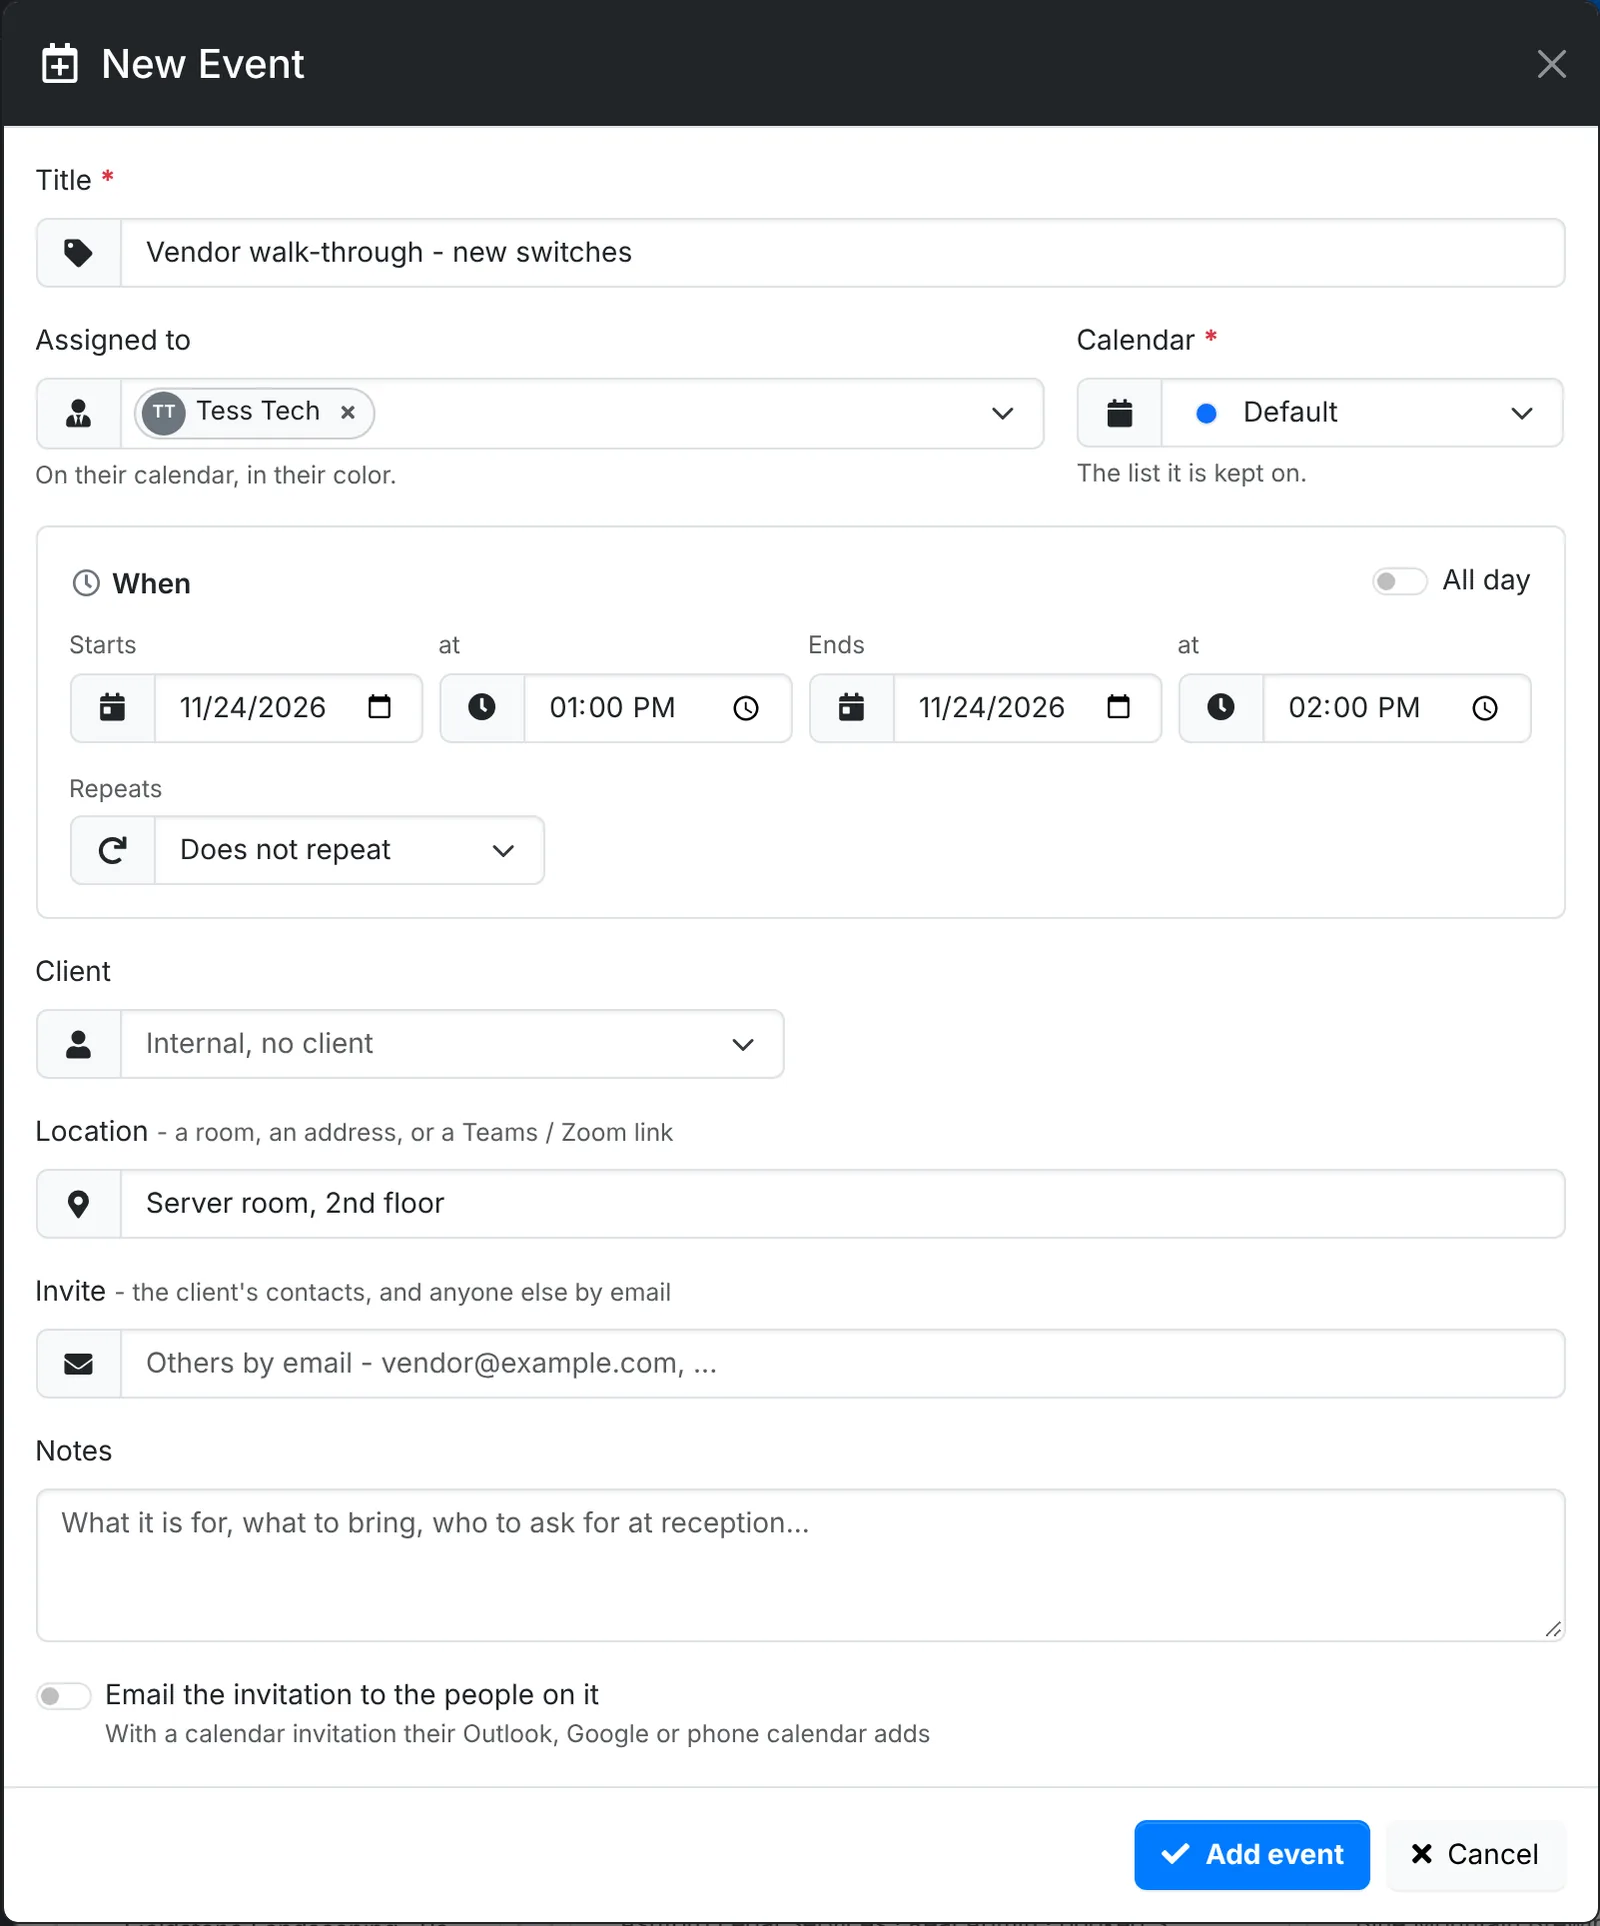
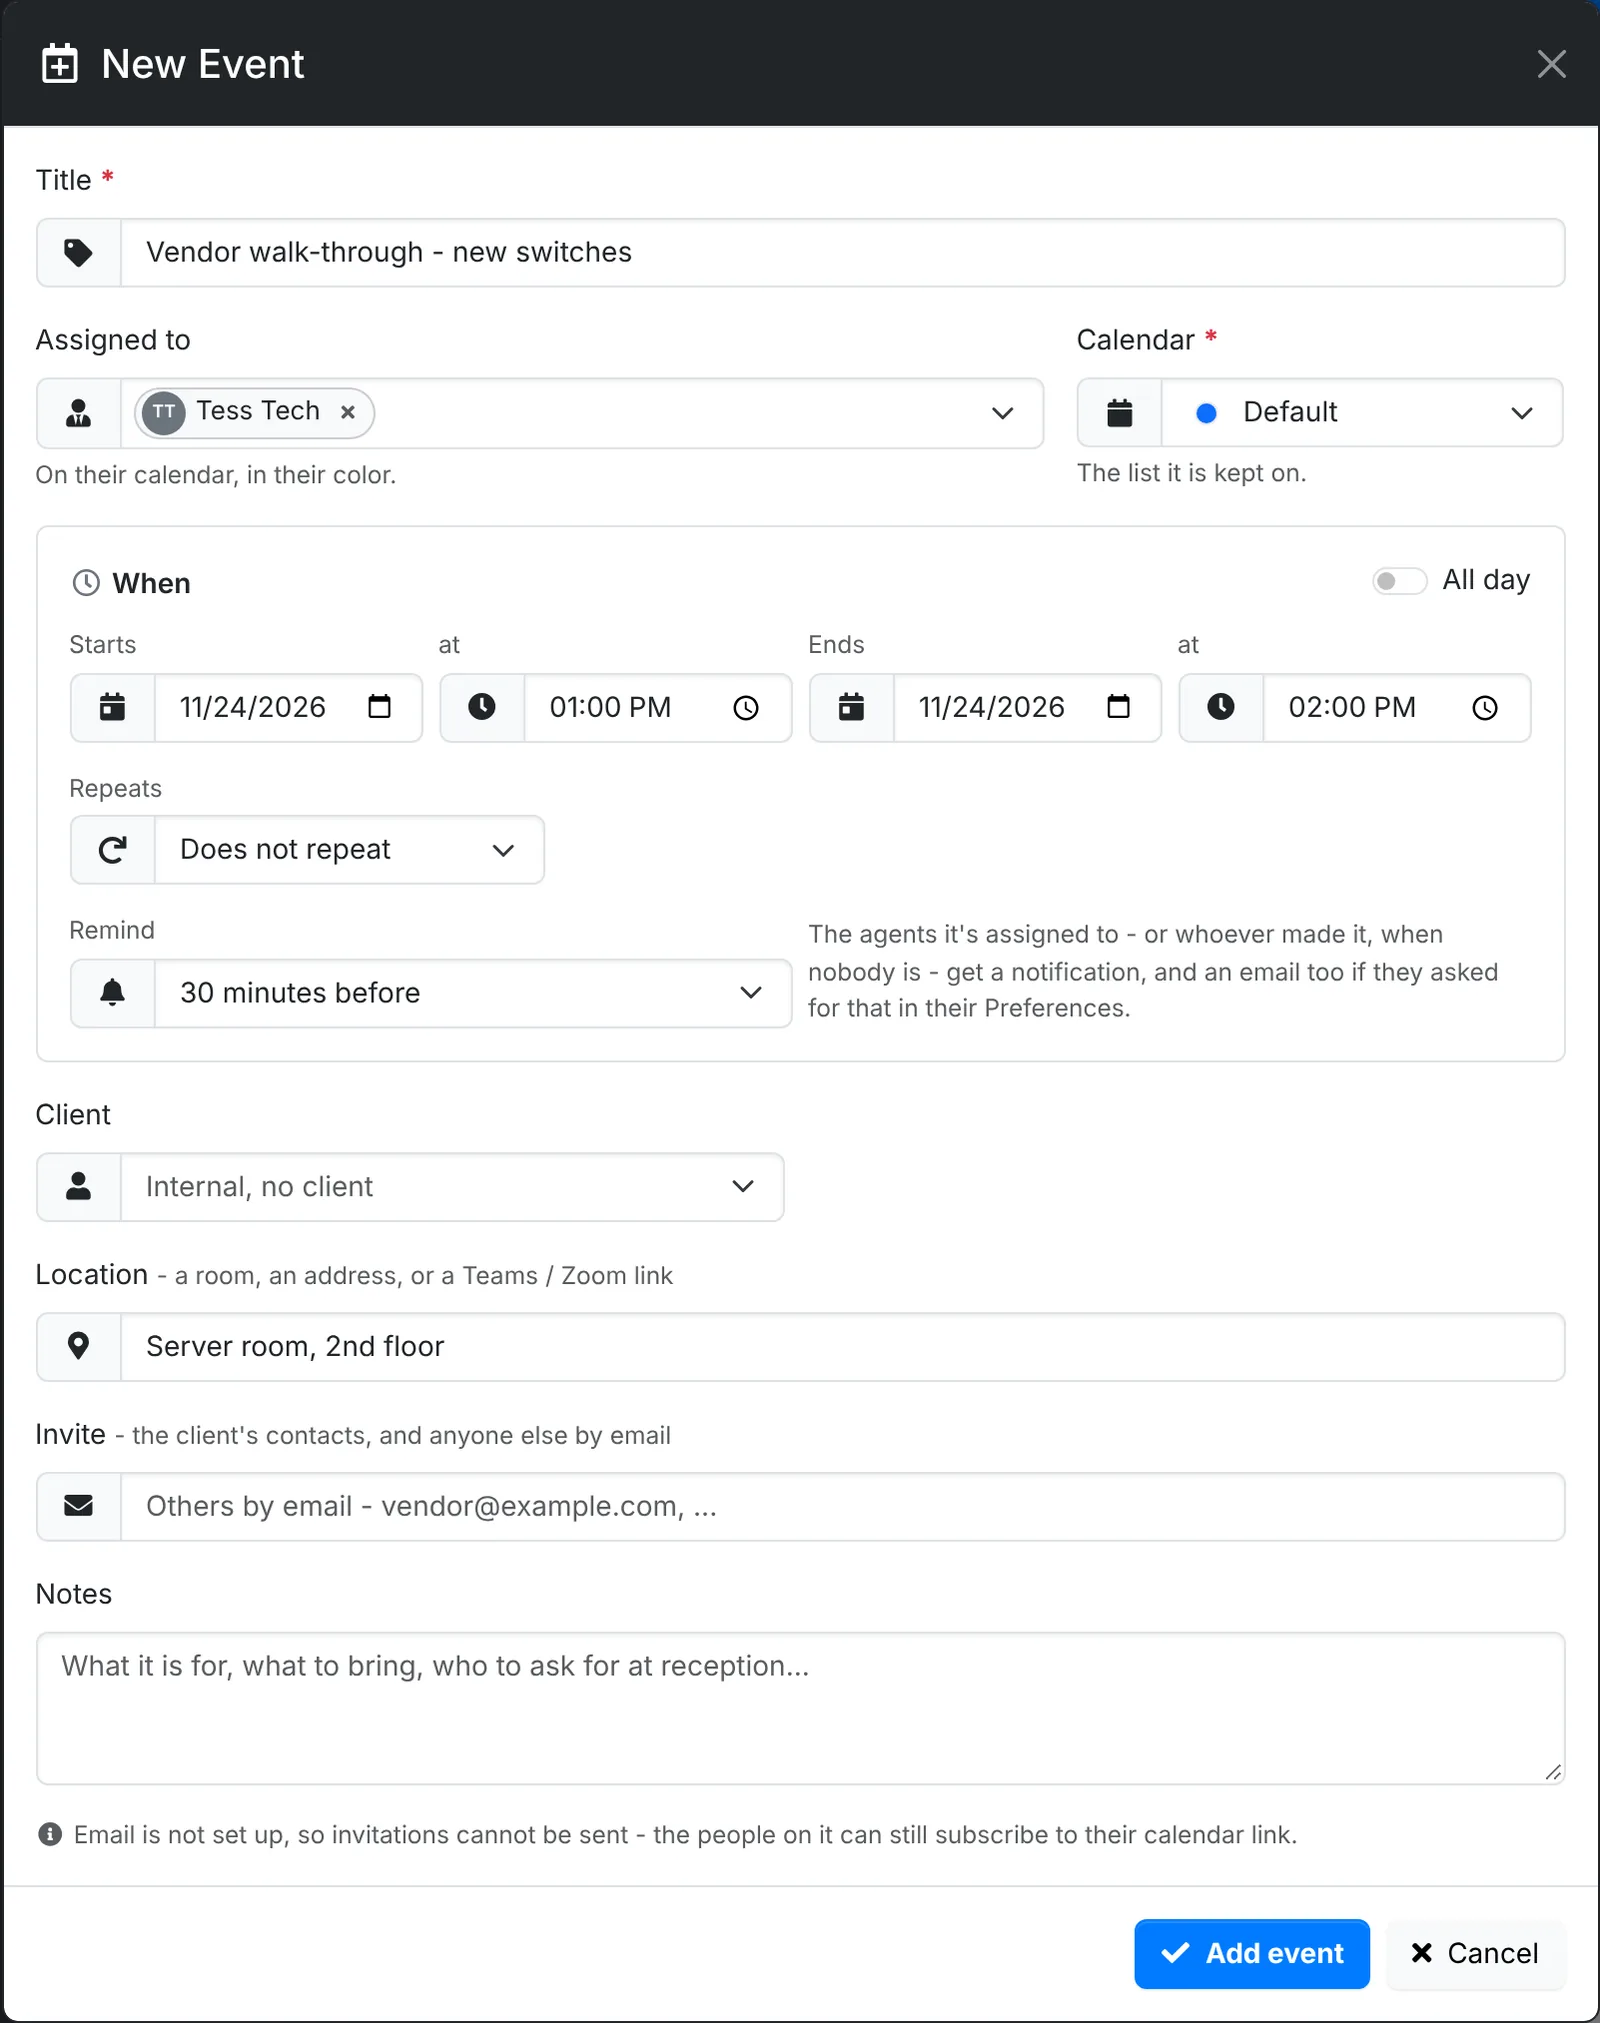
Docs: recurring invoices cover pausing until a day, bulk actions and copying to another client; payments, invoices, quotes, expenses, pictures, tickets and notifications cover the other billing changes

diff --git a/content/service-desk/calendar.md b/content/service-desk/calendar.md
@@ -54,14 +54,23 @@ Drag one onto the calendar to book it again, for as long as it was booked before
 4. Pick the **Client**, if it's for one, and the **Location** - a client site, a room, an address, or a Teams or Zoom link.
 5. Under **Invite**, add the client's contacts, and anyone else by email.
 6. Add **Notes**: what it's for, what to bring, who to ask for.
-7. Switch on **Email the invitation to the people on it** to send them a calendar invite their Outlook, Google or phone calendar adds.
-8. Click **Add event**.
+7. Pick when to **Remind** you - when it starts, or from five minutes to two days before. See [Reminders](#reminders).
+8. Switch on **Email the invitation to the people on it** to send them a calendar invite their Outlook, Google or phone calendar adds.
+9. Click **Add event**.
 
 ![The New Event window](sd-event-new.webp "New Event: who it's assigned to, when, where, who else is invited, and whether to send them an invitation")
 
 An event added while **Whose** shows one technician starts assigned to them, and shows on their calendar rather than yours.
 
 When you change or cancel an event with an invitation, the people on it get an update or a cancellation, and their calendar follows. An event's quick look changes who it's **Assigned to** without opening **Edit** - a technician taken off who had the invitation gets the cancellation, and one added gets the invitation when the others have it. The quick look can also download the event as a calendar file, or send the invitation again.
+
+## Reminders {#reminders}
+
+An event with **Remind** set sends a notification to the [bell](/getting-started/notifications) at that time - to each technician it's assigned to, or to whoever made it when nobody is. A repeating event reminds each time it comes round. Click the reminder to open the event.
+
+For your tickets, set **Remind me before work booked for me** in [Preferences](/getting-started/account#preferences): a ticket booked with you reminds you that long before. Switch on **Email me reminders too** there to get them by email as well.
+
+Reminders go out within a minute of their time, and each one only once. They need [cron](/admin/maintenance) running.
 
 ## See your schedule on your phone
 

diff --git a/content/service-desk/working-a-ticket.md b/content/service-desk/working-a-ticket.md
@@ -77,15 +77,25 @@ A note with time worked won't send without a date, start and end. Times are your
 
 ### Timers in the top bar {#timers}
 
-A ticket's timer keeps counting when you go to another page. While any ticket has time on its timer, a stopwatch shows in the top bar, with how many - it pulses while one is running. Click it to see each ticket and its time.
+A ticket's timer keeps counting when you go to another page. The stopwatch in the top bar shows how many timers have time on them - it pulses while one is running. Click it to see each ticket and its time.
 
-![Ticket timers in the top bar](sd-ticket-timers.webp "Ticket timers: one running, one paused")
+![Ticket timers in the top bar](sd-ticket-timers.webp "Timers: one without a ticket yet, two on tickets, and the time you logged this week")
 
 - Click a ticket to go back to it and log the time.
 - **Pause** or **Resume** a timer from here.
 - The bin throws a timer's time away, after you confirm - for time that shouldn't go on the ticket.
+- At the bottom, the time you've logged on tickets today and this week. The week starts on the day your [calendar does](/getting-started/account#preferences).
 
 Timers are kept in your browser, so the list shows the ones in this browser on this computer.
+
+#### A timer without a ticket {#call-timer}
+
+When the phone rings and you don't know yet whether it needs a ticket, open the stopwatch and click ▶ beside **A timer without a ticket**. It counts like a ticket's timer, and can be paused. Once you know where the time goes:
+
+- **New ticket** opens [Quick ticket](/service-desk/new-ticket#quick-ticket). The new ticket's timer carries on from yours - picking one of the contact's open tickets there instead adds the time to that one.
+- **Add to a ticket** lists your own open tickets - type a number, subject or client to find another. Click one to add the time to its timer and open it.
+
+![Adding the time without a ticket to an open ticket](sd-ticket-timer-find.webp "Add to a ticket: type to find the ticket the time goes on")
 
 ### Who an email reply goes to {#email-to}
 

diff --git a/content/service-desk/projects.md b/content/service-desk/projects.md
@@ -42,7 +42,18 @@ Along the top, a warning shows when something needs a look - past its due date, 
 - **Add tickets** adds **Tickets already raised** - picked from a list or by number - or more tickets **From a project template**.
 - **Edit**, **Mark complete**, and **⋮** for its tickets on the ticket list, **Archive** and **Delete**.
 
-The tabs list its **Tickets** (open first), its **Tasks** across every ticket, its **Activity** - the replies on its tickets - and **History**. Down the side are the **Scope**, the **Details** (client, contact, manager, dates and budget) and the **Team**, with the hours each person has logged.
+The tabs list its **Tickets** (open first), its **Tasks** across every ticket, its **Timeline**, its **Activity** - the replies on its tickets - and **History**. Down the side are the **Scope**, the **Details** (client, contact, manager, dates and budget) and the **Team**, with the hours each person has logged.
+
+### Timeline {#timeline}
+
+The **Timeline** tab shows its booked tickets in time, each as a bar from its booking's start to its end. It runs from the project's start to its due date - or further, when a booking is outside them - by the day, the week or the month, depending on how long that is. A red line marks now, and dashed lines the start and due dates.
+
+![A project's Timeline tab](sd-project-timeline.webp "Timeline: bookings in time, a clash flagged, and the open tickets not booked yet")
+
+- Blue is open, amber is a booking that has passed while the ticket is still open, and grey is resolved or closed.
+- Two bookings of the same technician at the same time are outlined in red, with **Same time as** and the other ticket.
+- Click a bar to open its ticket. Point at it for when it's booked.
+- **Open and not booked** lists its open tickets with no booking yet. **Book** sets one up.
 
 On the Tickets tab, tick tickets and use **Bulk Action** to assign them, set their priority or category, reply to them, resolve them, or **Take off the project**.
 

diff --git a/content/getting-started/account.md b/content/getting-started/account.md
@@ -59,13 +59,15 @@ When you sign in with your code, tick **Remember this browser** and ITFlow doesn
 
 ## Preferences {#preferences}
 
-![Preferences: theme, compact rows, the first day of the week, rows on a list, your time zone and your calendar colour](gs-account-preferences.webp "Preferences")
+![Preferences: theme, compact rows, the first day of the week, rows on a list, your time zone, reminders and your calendar colour](gs-account-preferences.webp "Preferences")
 
 - **Theme** - **Light** or **Dark**.
 - **Compact rows** - tighter rows on every list, so more fit on screen.
 - **Calendars start on** - the first day of the week on the calendar and date pickers.
 - **Rows on a list** - how many rows every list shows on a page. You can also change this at the foot of any list.
 - **My time zone** - for when you work somewhere other than the company. The [calendar](/service-desk/calendar), [Dispatch](/service-desk/dispatch), a ticket's booking, the **Schedule** and event windows, and your booking emails are then on your own clock - the emails give the company's time beside yours. Leave it on **The company's** otherwise. Bookings are still kept in the company's time, so nobody else's view changes.
+- **Remind me before work booked for me** - a [reminder](/service-desk/calendar#reminders) this long before each ticket booked with you, or **No reminder**.
+- **Email me reminders too** - reminders by email as well as on the bell, for your tickets and for events.
 - **Calendar color** - the colour your booked tickets and the events assigned to you are drawn in on the [calendar](/service-desk/calendar#colours). Click one of the twelve, or the box to pick any colour. **Automatic** goes back to the one you started with.
 
 ## Your canned responses

diff --git a/content/service-desk/new-ticket.md b/content/service-desk/new-ticket.md
@@ -45,7 +45,7 @@ For a call, or someone at your desk, click **+** in the top bar - it's there on 
 
 ![The Quick ticket window](sd-quick-ticket.webp "Quick ticket: the client, the contact and their open tickets, and the issue")
 
-The ticket opens with its timer already running, ready for your notes. Your admin sets what a quick ticket starts with - who it goes to, its status, category and billing, when its timer starts, and whether the contact is emailed - in [Ticket settings](/admin/tickets#quick-tickets).
+The ticket opens with its timer already running, ready for your notes. Started the call on the stopwatch before you knew it needed a ticket? Click **New ticket** under the [timer without a ticket](/service-desk/working-a-ticket#call-timer), and the new ticket's timer carries on from it. Your admin sets what a quick ticket starts with - who it goes to, its status, category and billing, when its timer starts, and whether the contact is emailed - in [Ticket settings](/admin/tickets#quick-tickets).
 
 ## Start from a template
 

diff --git a/content/admin/maintenance.md b/content/admin/maintenance.md
@@ -38,6 +38,7 @@ The list starts in the order the day runs - the every-minute jobs, then the nigh
 | Text Messages | every minute | Sends the texts waiting to go, texts reminders of visits and calls coming up, and tidies the text log. Does nothing until [text messaging](/admin/text-messaging) is set up. |
 | Ticket Email Parser | every minute | Turns email to your support mailbox into tickets and replies |
 | Ticket SLA Monitor | every minute | Warns about SLAs close to a breach, and records breaches |
+| Reminders | every minute | Sends the [reminders](/service-desk/calendar#reminders) of events and of work booked on tickets |
 | AI Triage | every minute | Triages new tickets, when that's switched on |
 | Payment Provider Fees | every 15 minutes | Records Stripe's fee on each card payment as an expense, when that's switched on |
 | RMM Sync | every 15 minutes | Brings in the devices of the clients linked to your [RMM](/admin/rmm), and keeps their assets up to date. Does nothing until an RMM is set up. |

diff --git a/content/getting-started/notifications.md b/content/getting-started/notifications.md
@@ -44,6 +44,7 @@ The full page lists every notification you've had, with a search box, a filter b
 What reaches you depends on your role and what you're working on. Common ones are:
 
 - **Tickets** - a ticket assigned to you, someone [mentioning you](/service-desk/working-a-ticket#mention) in an internal note, a client replying to one of your tickets, a task waiting for your approval, and a client's rating of a ticket
+- **Reminders** - an event on the calendar, and work booked with you, at the time [set for it](/service-desk/calendar#reminders)
 - **Recurring tickets** and **projects** assigned to you
 - **Shared links** - a client opening a link you shared (you can switch this off for a link when you make it), a link locking after wrong tries, and a login a client sent back to you
 - **Billing** - an invoice paid online, draft invoices waiting to be sent (and how many have been left more than a week), a sent quote running out in three days with no answer, and stock running low on a product
